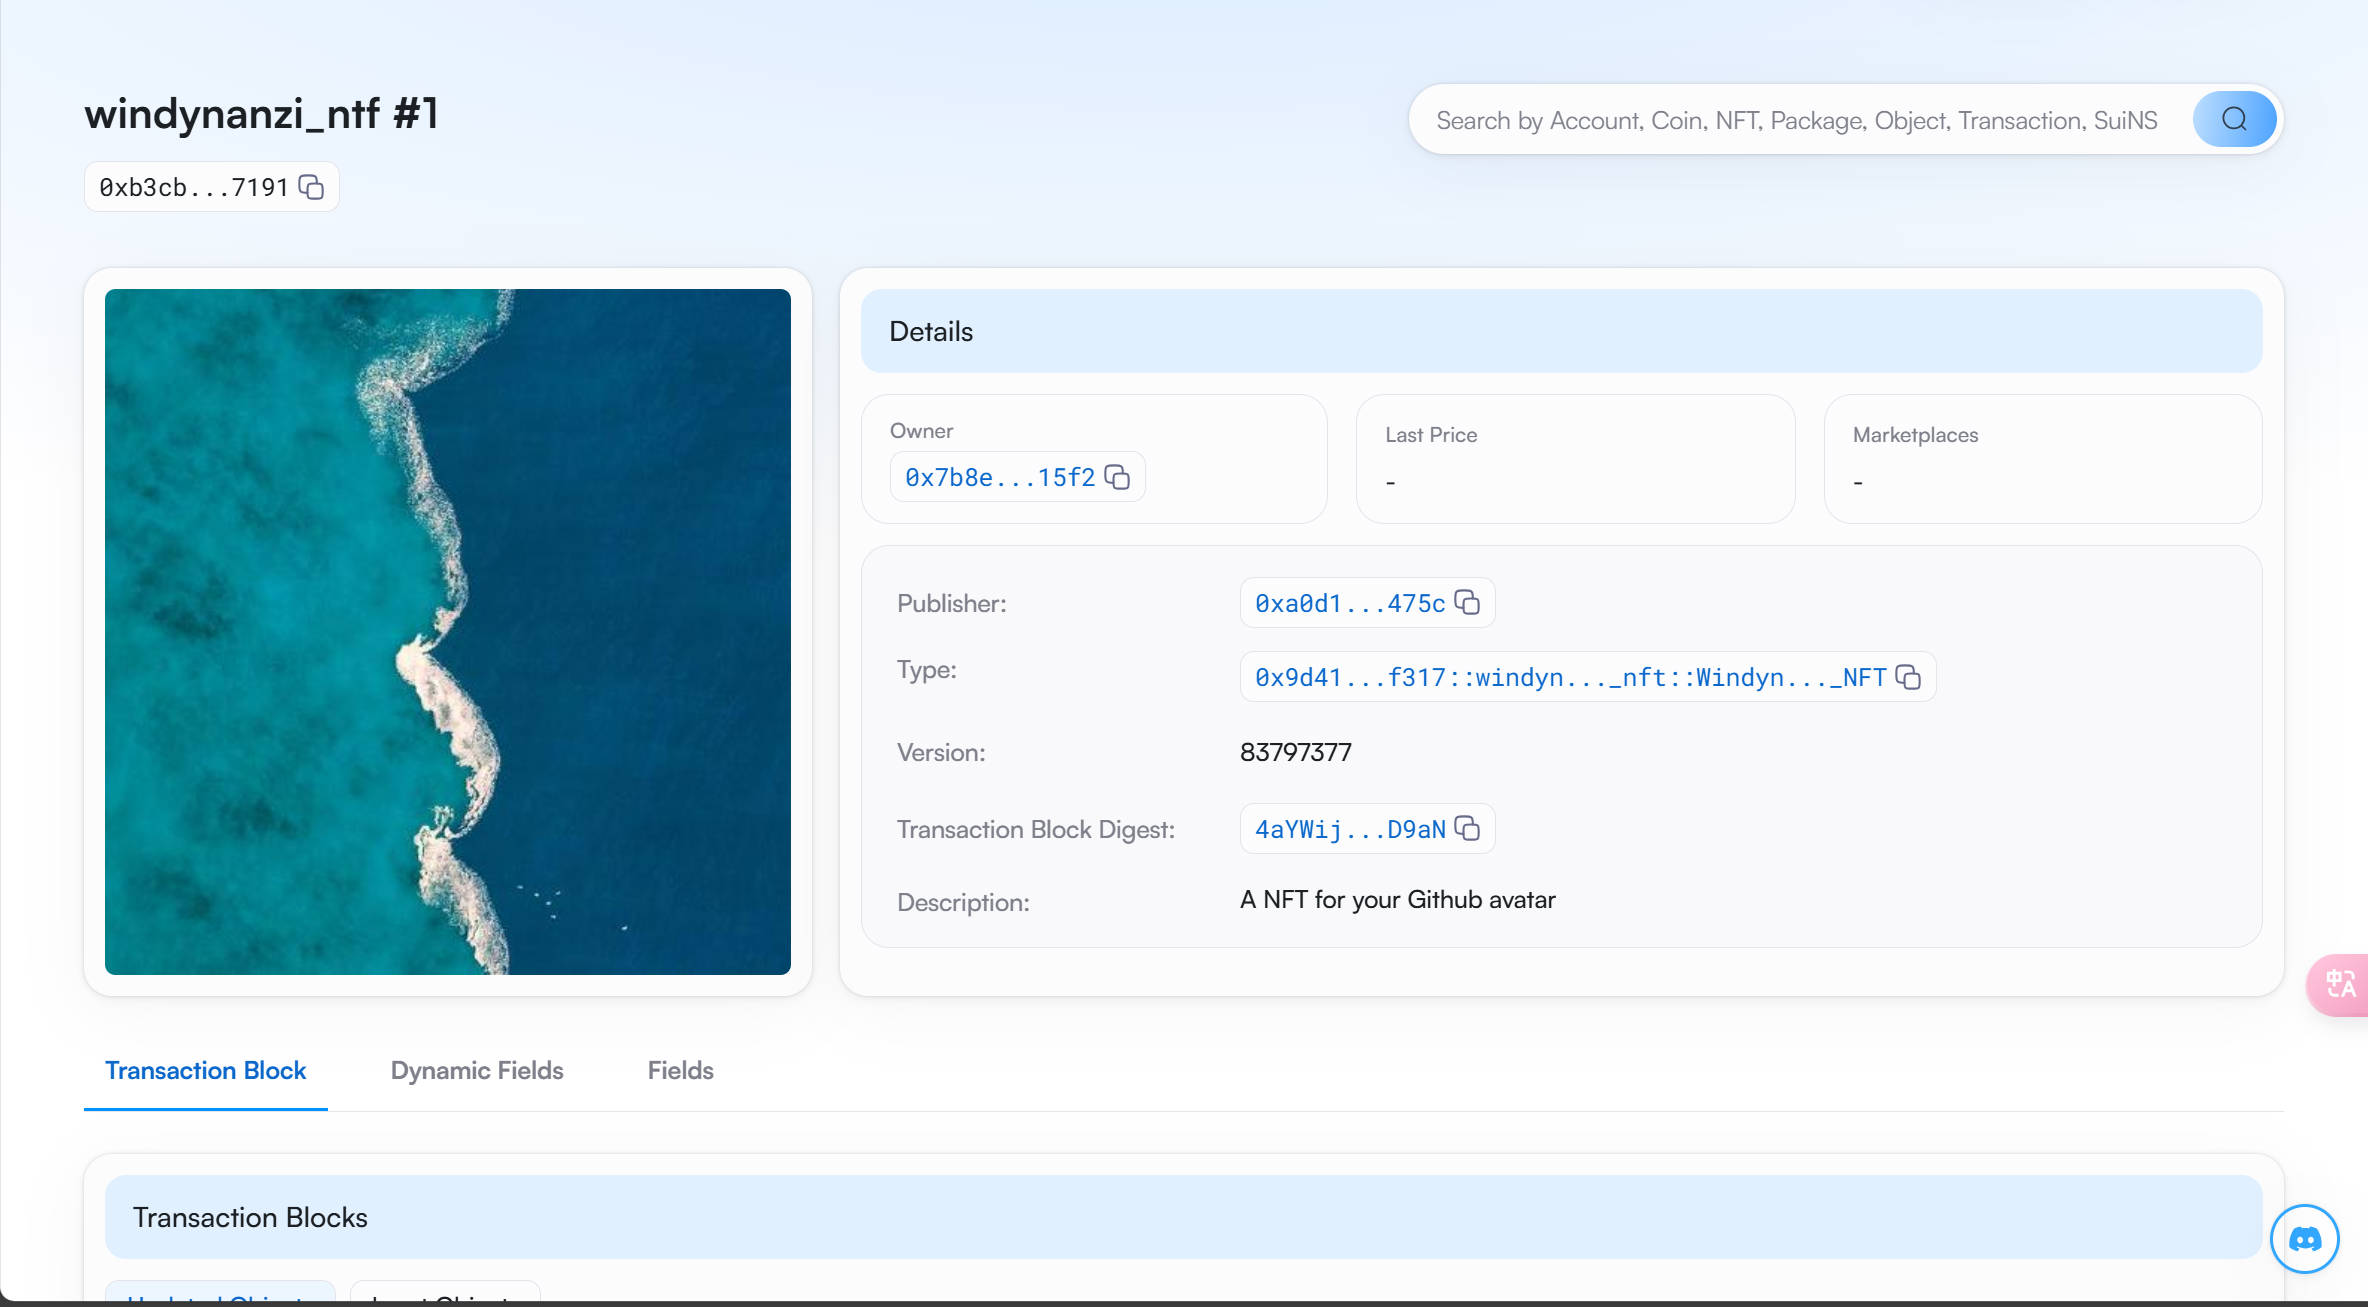
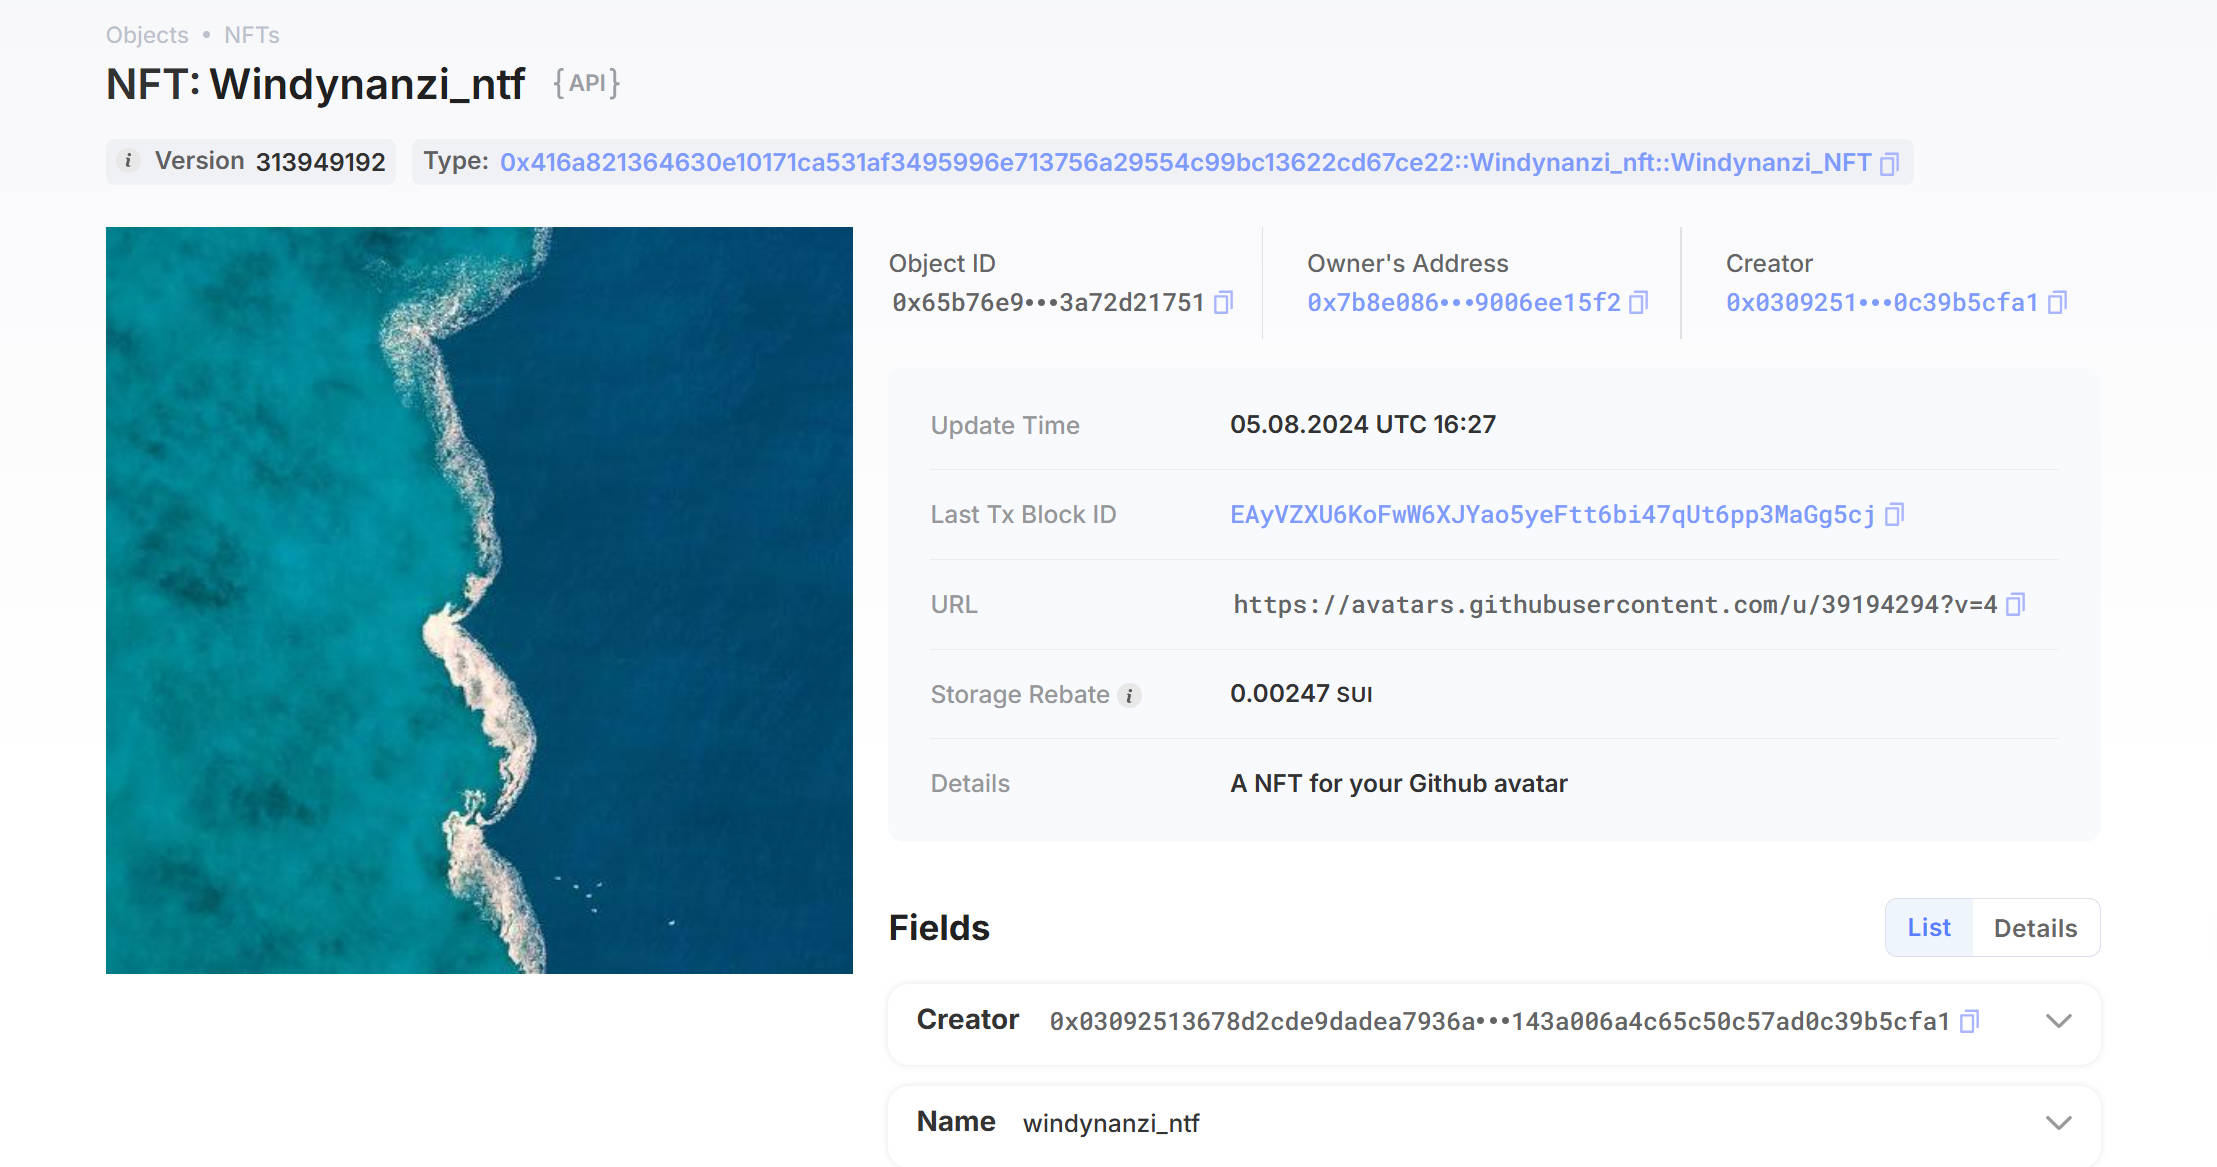
chore: task2 task3

diff --git a/mover/windynanzi/readme.md b/mover/windynanzi/readme.md
@@ -18,21 +18,19 @@
 - [x] package id 在 scan上的查看截图:![Scan截图](./images/sui-hello-world.png)
 
 ##   02 move coin
-> 都只能在 testnet 上查询
-- [x] My Coin package id : 0x7f4e44674c27f72814b38986db5f9276b8387beade723e787d93f5ccf0b27bfb
-- [x] Faucet package id : 0x7f4e44674c27f72814b38986db5f9276b8387beade723e787d93f5ccf0b27bfb
-- [x] 转账 `My Coin` hash: DfBa9UmJvdaWF4JzeEJL8Avv47a5Xk6sSNEs96BHofSF
-- [x] `Faucet Coin` address1 mint hash: GLQLPUfgyJ9jzFEfzLWKUSADtWeEHGwEbsVF2FguD2D
-- [x] `Faucet Coin` address2 mint hash: A8LVA1fE9wWeZJf9JLAhEabfcVj8dbfoxeGgvb9CUaQM
-- `Faucet Coin` shared Object id: 0x2440636e94aca94715bad3c54421638eb974356497047899f50e1c191f0513cf
+- [x] My Coin package id : 0x0b729163b66a6ed4ae5d7352e7bbf16573548827c22464554caf0f5a8b8c89a4
+- [x] Faucet package id : 0x0b729163b66a6ed4ae5d7352e7bbf16573548827c22464554caf0f5a8b8c89a4
+- [x] 转账 `My Coin` hash: DG47kddA9N26T5fwWeU3FP4nkmHZd6gQFY8oa29ux6ne
+- [x] `Faucet Coin` address1 mint hash: FjQ9EkiRCbL53pm8jH4cuMhNPEy6xQW3VHPbRLtvh48Y
+- [x] `Faucet Coin` address2 mint hash: C7vnFtN3RZ2qBeaMQW3xwF9yrzbyjboHCShtev1JcKrR
 ![被转账用户活动页截图](./images/hello_coin_1.jpg)
 ![其中一个Faucet Coin截图](./images/hello_coin_2.jpg)
 
 ##   03 move NFT
 > 都只能在 testnet 上查询
-- [x] nft package id : 0x9d41f76683a517e518c72e28146cd00b51e6ad09788ebcde6aa524009208f317
-- [x] nft object id : 0xd211072d6211e1ed78933ca8091633c7841e8c7ddf03487c636f42788f606177
-- [x] 转账 nft  hash: 4aYWijwus4pu28c3nBT8wmxjY7FKJWqhaaeSMmJVD9aN
+- [x] nft package id : 0x416a821364630e10171ca531af3495996e713756a29554c99bc13622cd67ce22
+- [x] nft object id : 0xde4e094ee30029d665fb8666aea3bb38fc9a7d2710584ce1255f530f9edf5961
+- [x] 转账 nft  hash: EAyVZXU6KoFwW6XJYao5yeFtt6bi47qUt6pp3MaGg5cj
 - [x] scan上的NFT截图:![Scan截图](./images/nft_1.jpg)
 
 ##   04 Move Game
